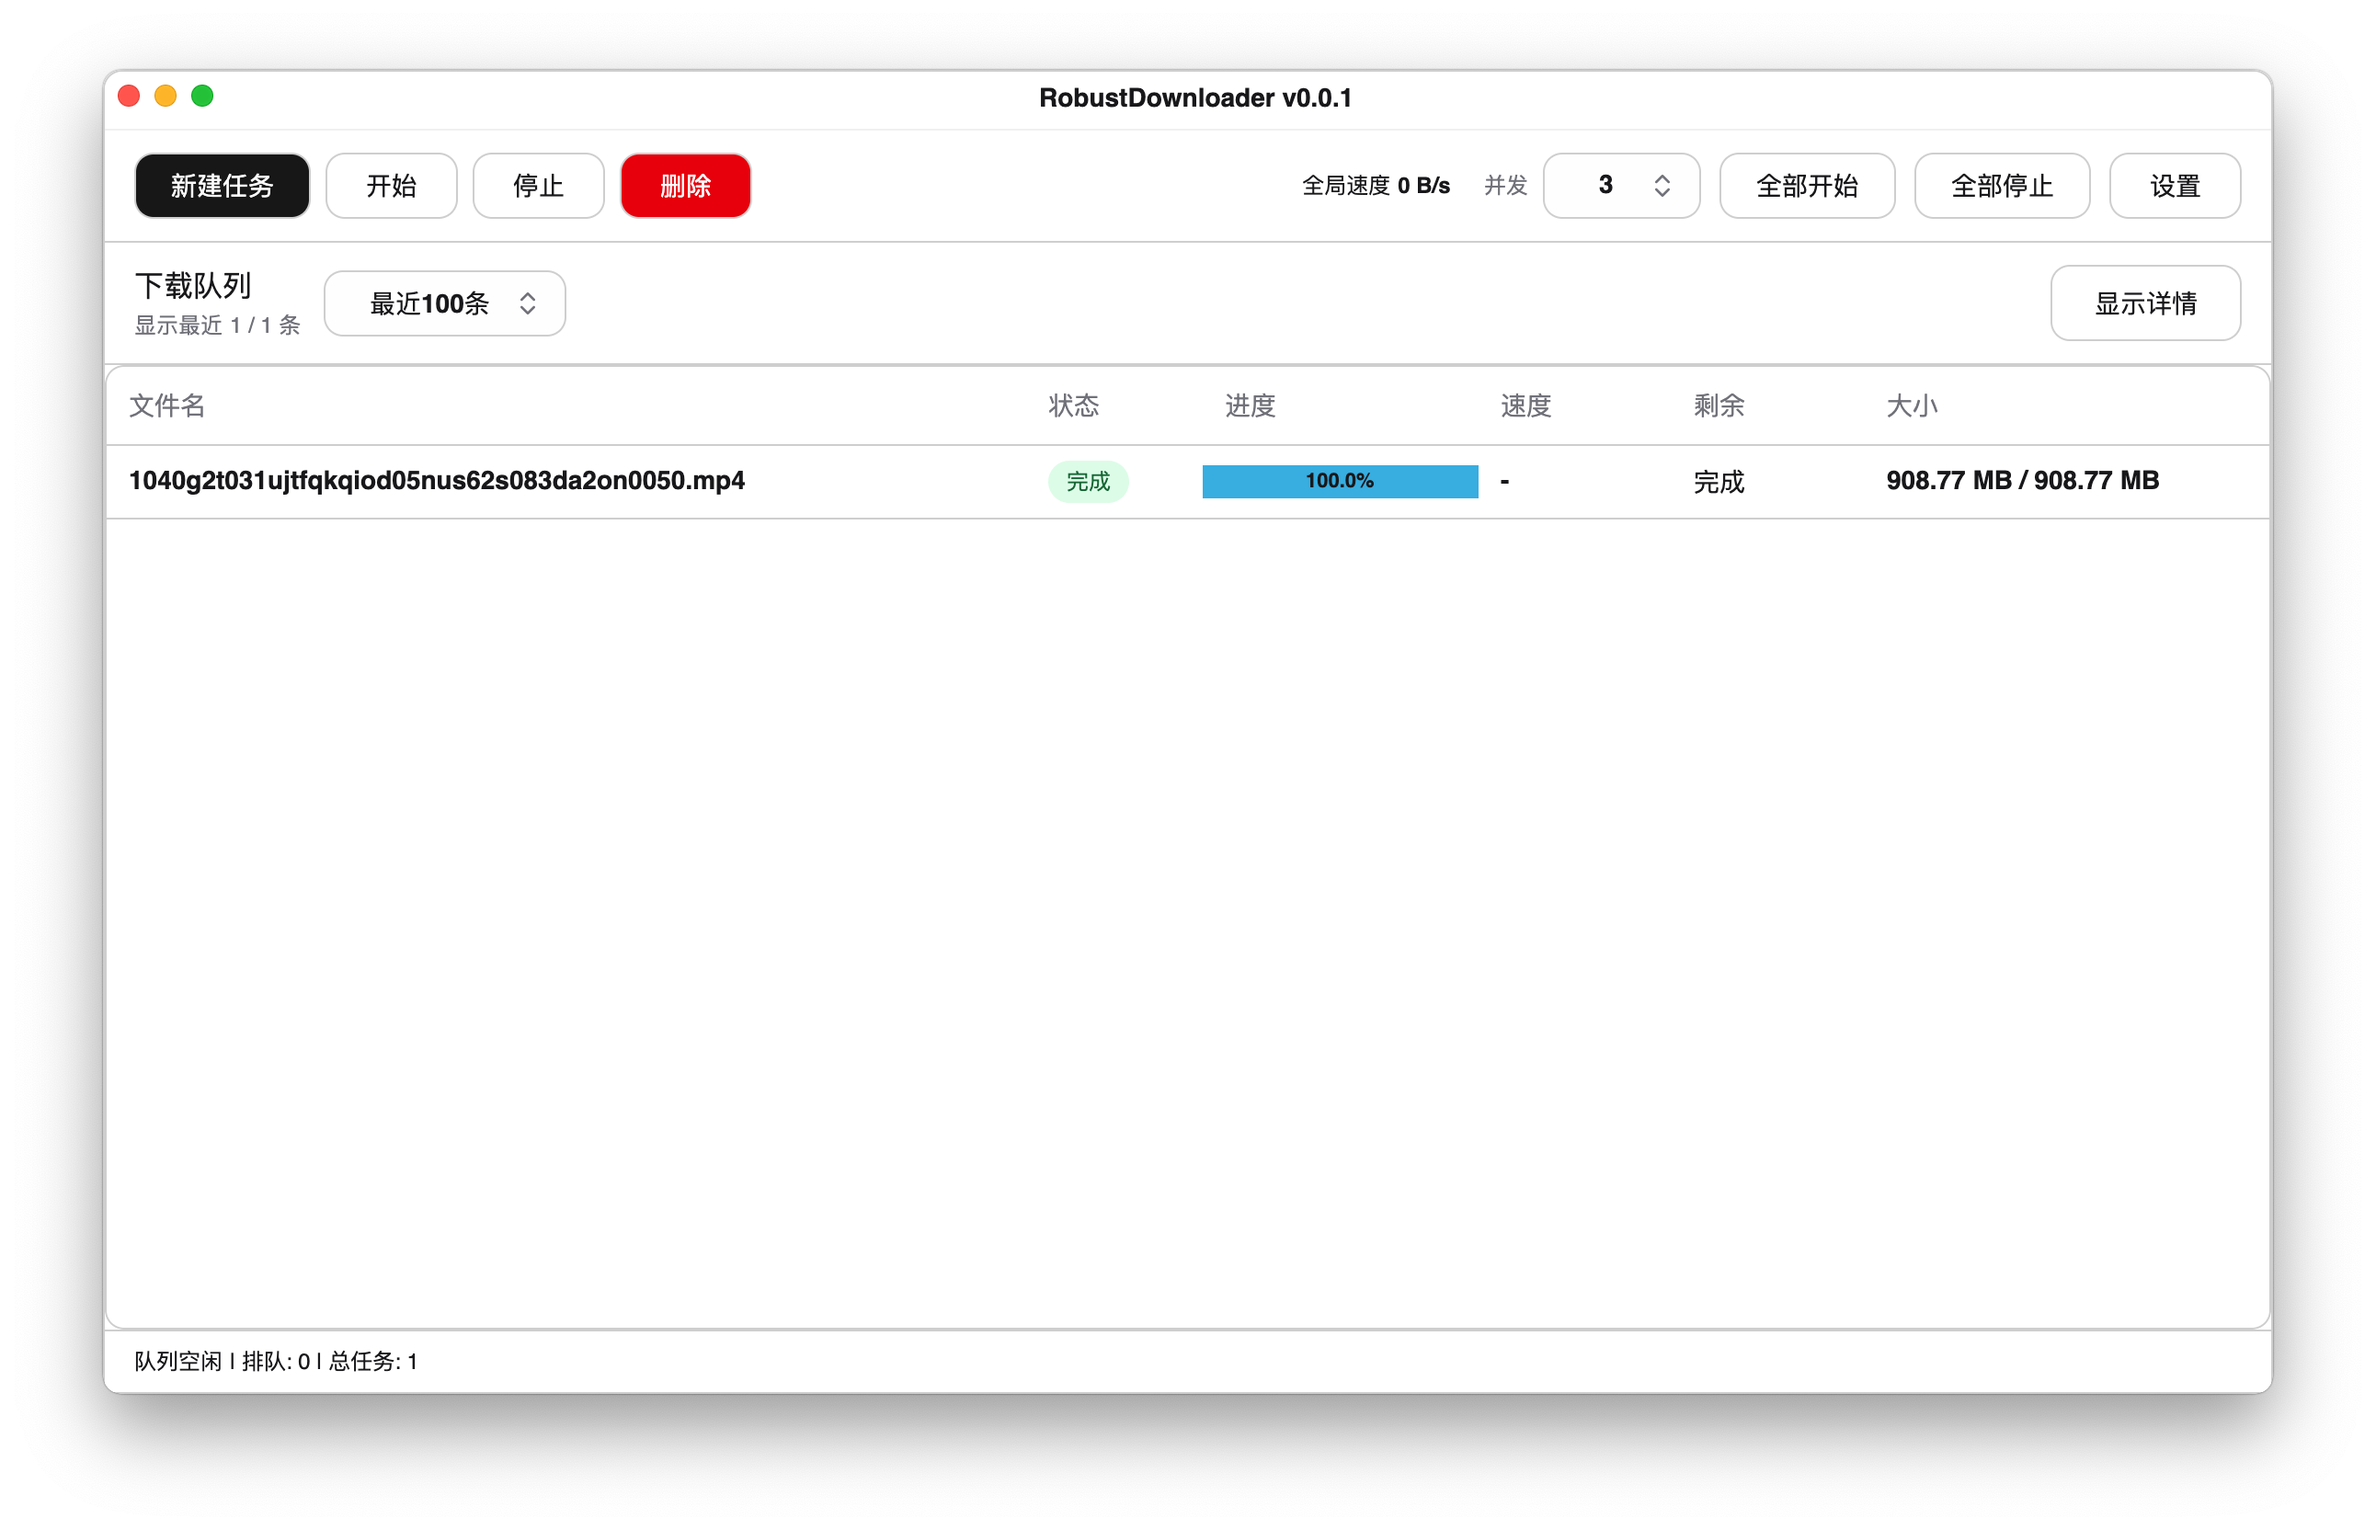
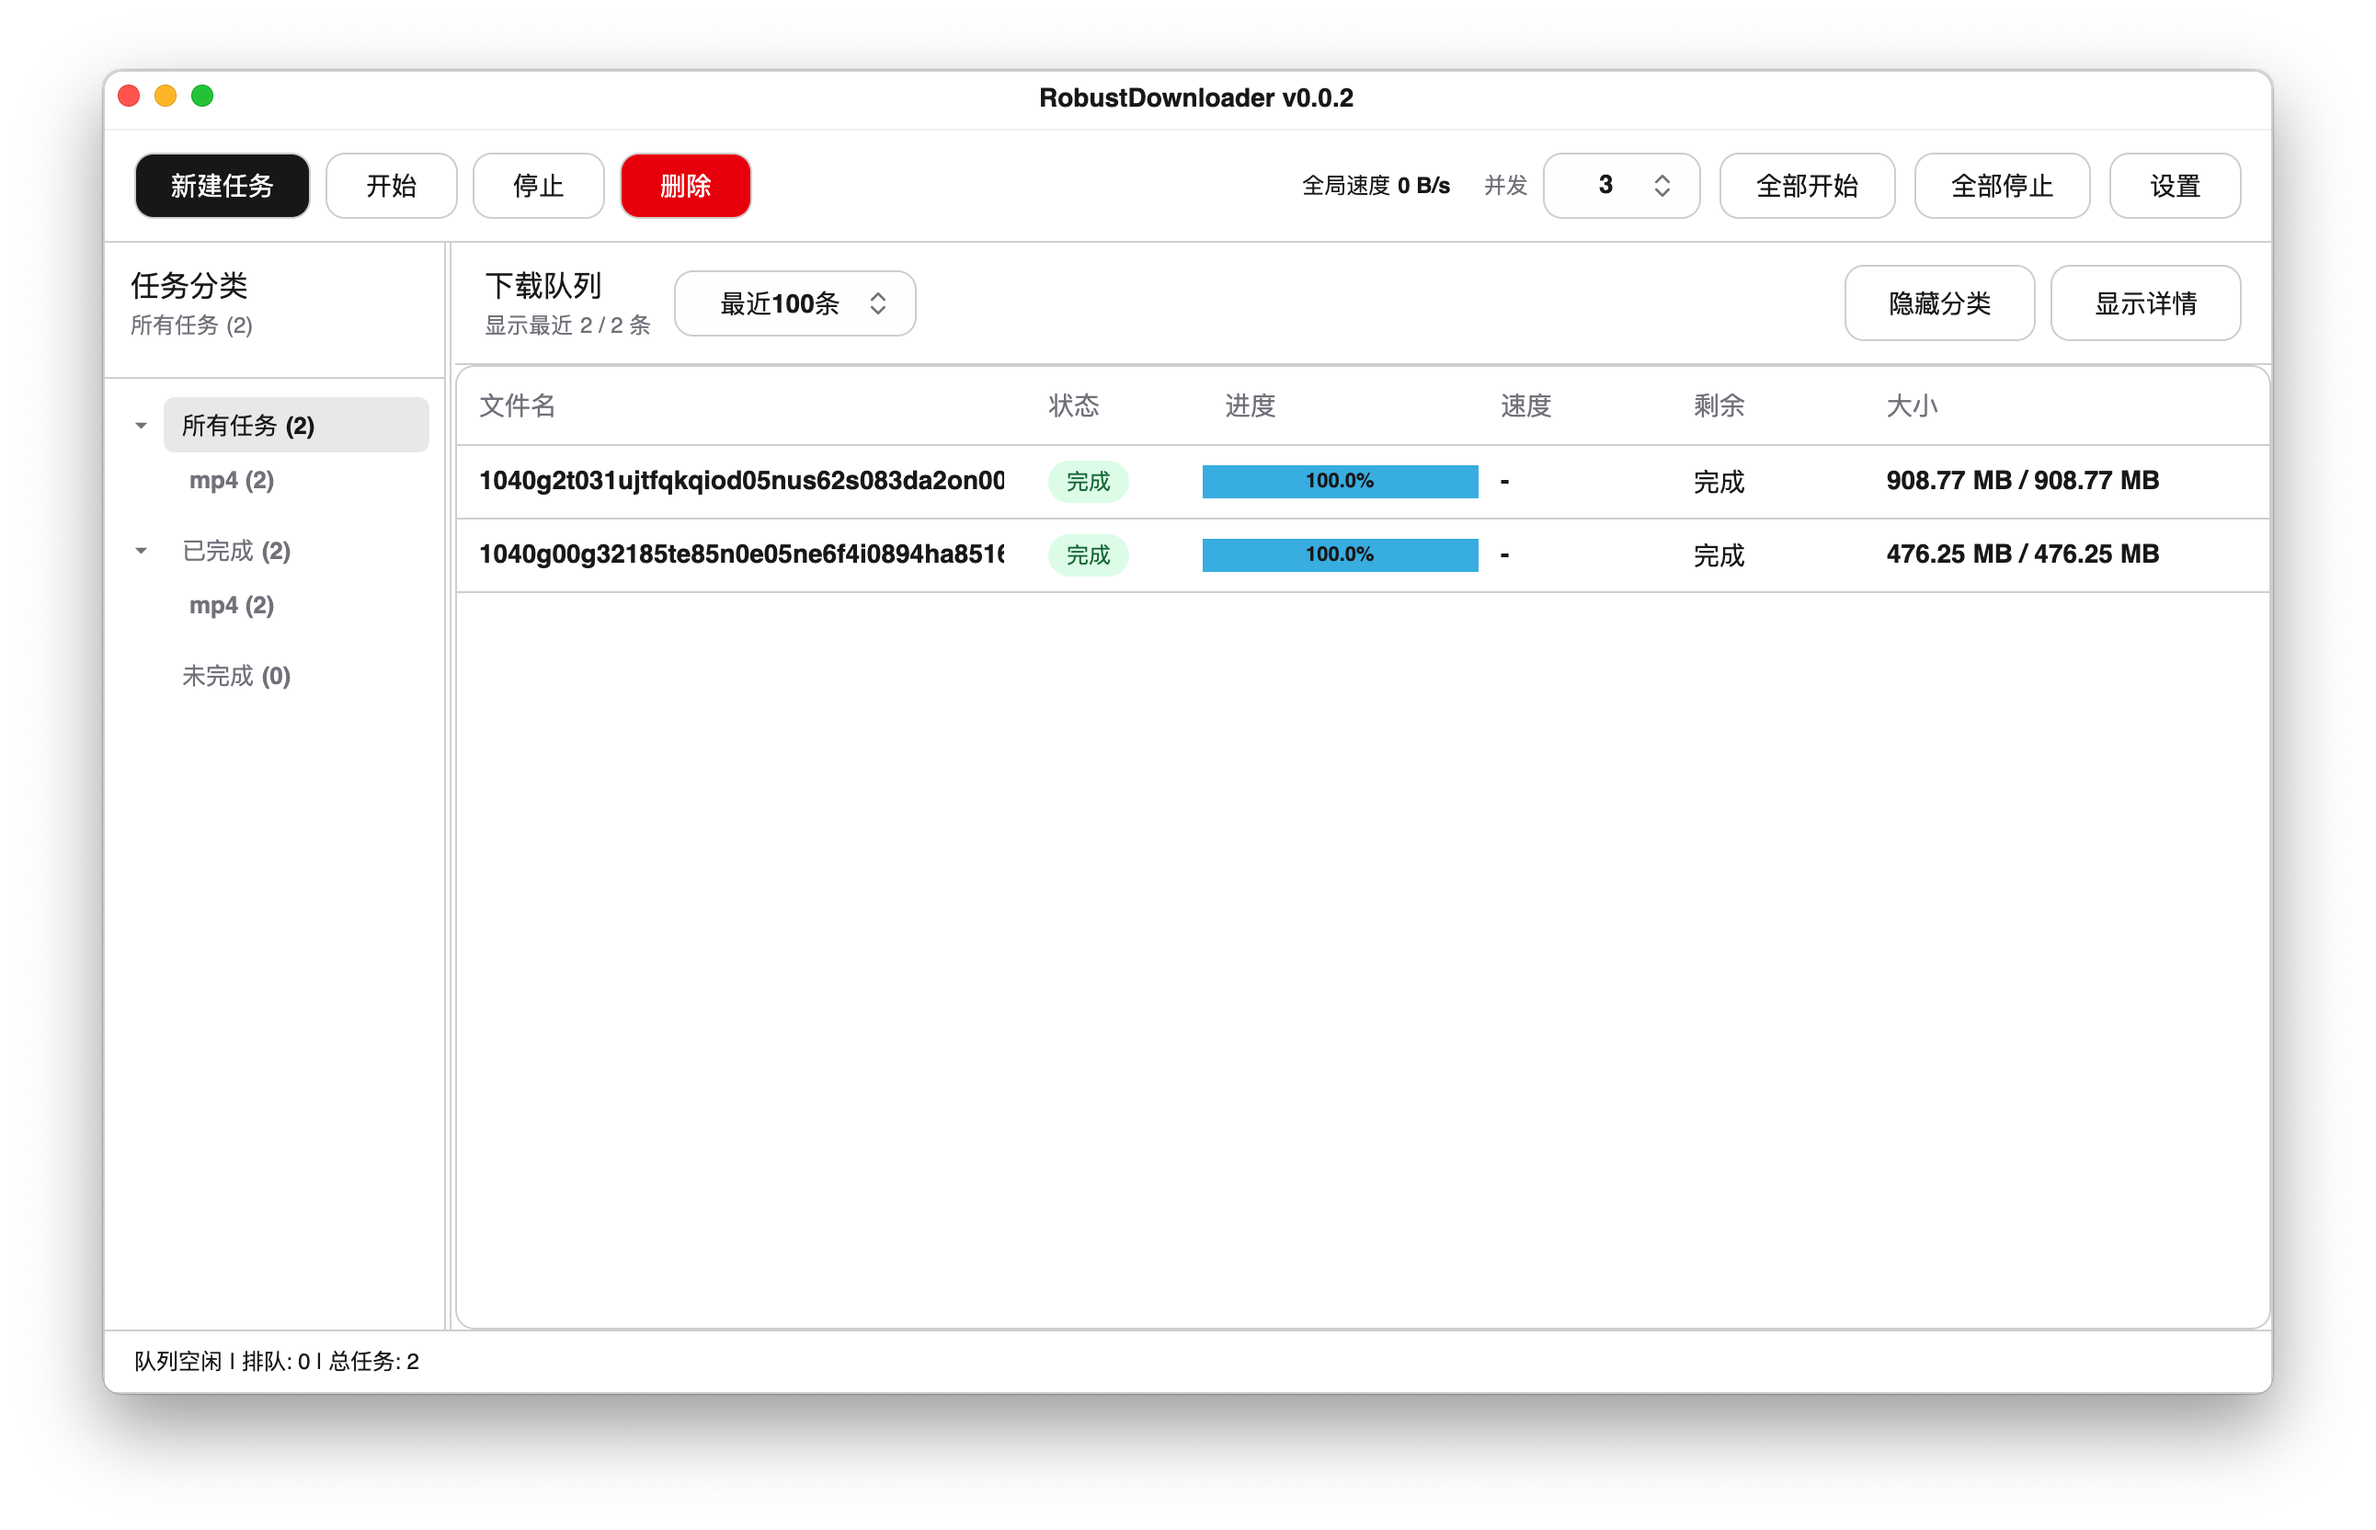
feat: autofill task urls from clipboard (#3)

diff --git a/src/RobustDownloader/Views/AddTaskWindow.axaml.cs b/src/RobustDownloader/Views/AddTaskWindow.axaml.cs
@@ -1,7 +1,9 @@
 using System;
 using System.IO;
 using System.Linq;
+using System.Threading.Tasks;
 using Avalonia.Controls;
+using Avalonia.Input.Platform;
 using Avalonia.Platform.Storage;
 using RobustDownloader.Models;
 using RobustDownloader.Services;
@@ -24,6 +26,33 @@ public partial class AddTaskWindow : ShadUI.Window
         ChkCrcOnly.IsChecked = defaults.CrcOnly;
         ChkSkipCrc.IsChecked = defaults.SkipCrc;
         ChkUpdateFileTimestamp.IsChecked = defaults.UpdateFileTimestamp;
+    }
+
+    protected override async void OnOpened(EventArgs e)
+    {
+        base.OnOpened(e);
+        await TryFillUrlsFromClipboardAsync();
+    }
+
+    private async Task TryFillUrlsFromClipboardAsync()
+    {
+        if (!string.IsNullOrWhiteSpace(TxtUrls.Text) || Clipboard == null) return;
+
+        string? clipboardText;
+        try
+        {
+            clipboardText = await Clipboard.TryGetTextAsync();
+        }
+        catch
+        {
+            return;
+        }
+
+        var urls = GetHttpUrlsFromClipboard(clipboardText);
+        if (urls.Length == 0) return;
+
+        TxtUrls.Text = string.Join(Environment.NewLine, urls);
+        TxtUrls.CaretIndex = TxtUrls.Text.Length;
     }
 
     private void TxtUrls_TextChanged(object? sender, TextChangedEventArgs e)
@@ -133,5 +162,31 @@ public partial class AddTaskWindow : ShadUI.Window
             .Select(u => u.Trim())
             .Where(u => !string.IsNullOrWhiteSpace(u))
             .ToArray();
+    }
+
+    private static string[] GetHttpUrlsFromClipboard(string? text)
+    {
+        var candidates = (text ?? "")
+            .Split(['\r', '\n', '\t', ' '], StringSplitOptions.RemoveEmptyEntries)
+            .Select(NormalizeClipboardUrlToken)
+            .Where(token => token.Length > 0)
+            .ToArray();
+
+        if (candidates.Length == 0)
+            return [];
+
+        return candidates.All(IsHttpUrl) ? candidates : [];
+    }
+
+    private static string NormalizeClipboardUrlToken(string token)
+    {
+        return token.Trim().Trim('"', '\'', '<', '>');
+    }
+
+    private static bool IsHttpUrl(string value)
+    {
+        return Uri.TryCreate(value, UriKind.Absolute, out var uri) &&
+               uri.Scheme is "http" or "https" &&
+               !string.IsNullOrWhiteSpace(uri.Host);
     }
 }

diff --git a/src/RobustDownloader/ViewModels/MainWindowViewModel.cs b/src/RobustDownloader/ViewModels/MainWindowViewModel.cs
@@ -899,7 +899,7 @@ public partial class MainWindowViewModel : ViewModelBase
             var version = typeof(MainWindowViewModel).Assembly
                 .GetCustomAttribute<AssemblyInformationalVersionAttribute>()
                 ?.InformationalVersion;
-            return string.IsNullOrWhiteSpace(version) ? "0.0.1" : version.Split('+')[0];
+            return string.IsNullOrWhiteSpace(version) ? "0.0.2" : version.Split('+')[0];
         }
     }
 
